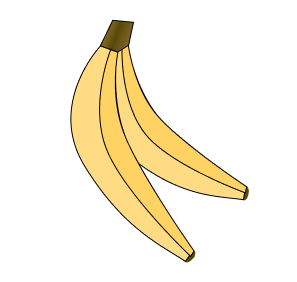
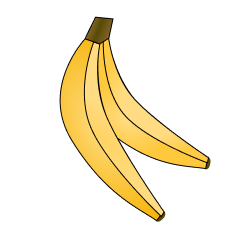
Modifications to images sizes, added image info to page, corrected CSS hover display.

Changed region(s): [[0.2231, 0.0588, 0.8367, 0.9412]]

diff --git a/figma-design-components.html b/figma-design-components.html
@@ -41,20 +41,27 @@
       display: grid;
       border: 1px solid rgb(255 255 255 / 30%);
       border-radius: 20px;
-      width: 300px;
-      height: 300px;
+      width: 350px;
+      height: 350px;
       justify-content: center;
       justify-items: center;
       align-content: center;
       background-color: rgba(7, 7, 7, 0.38);
     }
+    .label {
+      font-size: .8em;
+      padding-top: 1em;
+    }
+    img {
+      
+      transition: all .2s ease-in-out;
+    }
     img:hover {
       position: relative;
-      width: 170%;
+      width: 120%;
       height: auto;
       display: block;
-      transition: width 1s, height 1s;
-    
+      transform: scale (1.5);
     }
     footer {
       text-align: center;
@@ -100,45 +107,83 @@
 
     <div class="grid-container">
       <div id="swiss-cheese" class="grid">
-        <img src="images/fig-design-elements/Swiss-cheese-sm.png"/>
-        <div class="label" class="grid">Swiss Cheese</div>
+        <img src="images/fig-design-elements/Swiss-cheese-sm.png" width="85%"/>
+        <div class="label" class="grid">Swiss Cheese 
+        <div>File Type: PNG</div>
+        <div>Size: 152px X 124px</div>
       </div>
-      <div id="fish" class="grid">
+      </div>
+      <div id="fish-right-sm" class="grid">
         <img src="images/fig-design-elements/Fish-right-sm.png" width="85%">
-        <div class="label">Trout Small (right)</div>
+        <div class="label">Trout Small (right)
+        <div>File Type: PNG</div>
+        <div>Size: 314px X 144px</div>
       </div>
-      <div id="fish" class="grid">
+      </div>
+      <div id="fish-left-sm" class="grid">
         <img src="images/fig-design-elements/Fish-left-sm.png" width="85%">
-        <div class="label">Trout Large (left)</div>
+        <div class="label">Trout Fat (left)
+        <div>File Type: PNG</div>
+        <div>Size: 316px X 144px</div>
       </div>
-      <div id="orange" class="grid">
-        <img src="images/fig-design-elements/Orange-sm.png"width="130%">
-        <div class="label">Orange</div>
+      </div>
+      <div id="orange-md" class="grid">
+        <img src="images/fig-design-elements/Orange-med.png" width="75%">
+        <div class="label">Orange-Med
+        <div>File Type: PNG</div>
+        <div>Size: 200px X 227px </div>
+      </div>
       </div>
       <div id="celery" class="grid">
-        <img src="images/fig-design-elements/Celery-left-sm.png"/>
-        <div class="label">Celery</div>
+        <img src="images/fig-design-elements/Celery-left-sm.png" width="100%"/>
+        <div class="label">Celery
+        <div>File Type: PNG</div>
+        <div>Size: 200px X 216px</div>
+      </div>
       </div>
       <div id="blueberries" class="grid">
-        <img src="images/fig-design-elements/Blueberries-right-sm.png">
-        <div class="label">Blueberries</div>
+        <img src="images/fig-design-elements/Blueberries-right-med.png" width="100%">
+        <div class="label">Blueberries
+        <div>File Type: PNG</div>
+        <div>Size: 230px X 197px</div>
       </div>
-      <div id="tomato" class="grid">
-        <img src="images/fig-design-elements/Tomato-left-sm.png">
-        <div class="label">Tomato</div>
       </div>
-      <div id="carrots-bunch" class="grid">
-        <img src="images/fig-design-elements/Carrots-bunch-sm.png"width="130%">
-        <div class="label">Carrots (bunch)</div>
+      <div id="tomato-sm" class="grid">
+        <img src="images/fig-design-elements/Tomatos-small.png" width="80%">
+        <div class="label">Tomato
+        <div>File Type: PNG</div>
+        <div>Size: 200px X 216px/each</div>
+      </div>
+      </div>
+      <div id="carrots-bunch-med" class="grid">
+        <img src="images/fig-design-elements/Carrots-bunch-med.png"width="100%">
+        <div class="label">Carrots (bunch)
+        <div>File Type: PNG</div>
+        <div>Size: 190px X 233px</div>
+        </div>
+      </div>
+      <div id="carrots-indiv-med" class="grid">
+        <img src="images/fig-design-elements/Carrots-med-single.png"width="100%">
+        <div class="label">Carrots Singles
+        <div>File Type: PNG</div>
+        <div>Size: 200px X 86px/each</div>
+        </div>
       </div>
       <div id="french-bread" class="grid">
-        <img src="images/fig-design-elements/French-bread-med.png" width="85%">
-        <div class="label" class="grid">French bread</div>
+        <img src="images/fig-design-elements/French-bread-med.png" width="100%">
+          <div class="label" class="grid">French bread
+          <div>File Type: PNG</div>
+          <div>Size: 300px X 95px/each</div>
+        </div>
       </div>
       <div id="bananas" class="grid">
-        <img src="images/fig-design-elements/Bananas-right-med.png" width="85%">
-        <div class="label" class="grid">Bananas</div>
+        <img src="images/fig-design-elements/Bananas-Bunch-med.png" width="100%" style="margin-top: -50px">
+        <div class="label" class="grid" style="margin-top: -30px">Bananas/Bunch
+          <div>File Type: PNG</div>
+          <div>Size: 300px X 95px/each</div>
+        </div>
       </div>
+      <!-- image size: 297x282 -->
       <div id="rasberry" class="grid">
         <img src="images/fig-design-elements/Raspberry-right-med.png">
         <div class="label" class="grid"
@@ -173,9 +218,10 @@
       <img src="images/fig-design-elements/Eggs-med.png" width="85%">
       <div class="label" class="grid">Eggs (dozen)</div>
     </div>
-      <div id="eggs-dozen" class="grid">
+      <div id="beets-med-pair" class="grid">
         <img src="images/fig-design-elements/Beets-med-pair.png" width="80%">
         <div class="label" class="grid">Beets-Pair</div>
+        <!-- image size: 515x591 -->
       </div>
       <div id="flour-sack" class="grid">
         <img src="images/fig-design-elements/Flour-sack-med.png" width="70%">
@@ -184,6 +230,7 @@
       <div id="acorn-squash" class="grid">
         <img src="images/fig-design-elements/Acorn-squash-sm.png" width="70%">
         <div class="label" class="grid">Acorn squash</div>
+        <!-- image size: 227x244 -->
       </div>
       <div id="trash-can" class="grid">
         <img src="images/fig-design-elements/Trash-can.png" width="85%">
